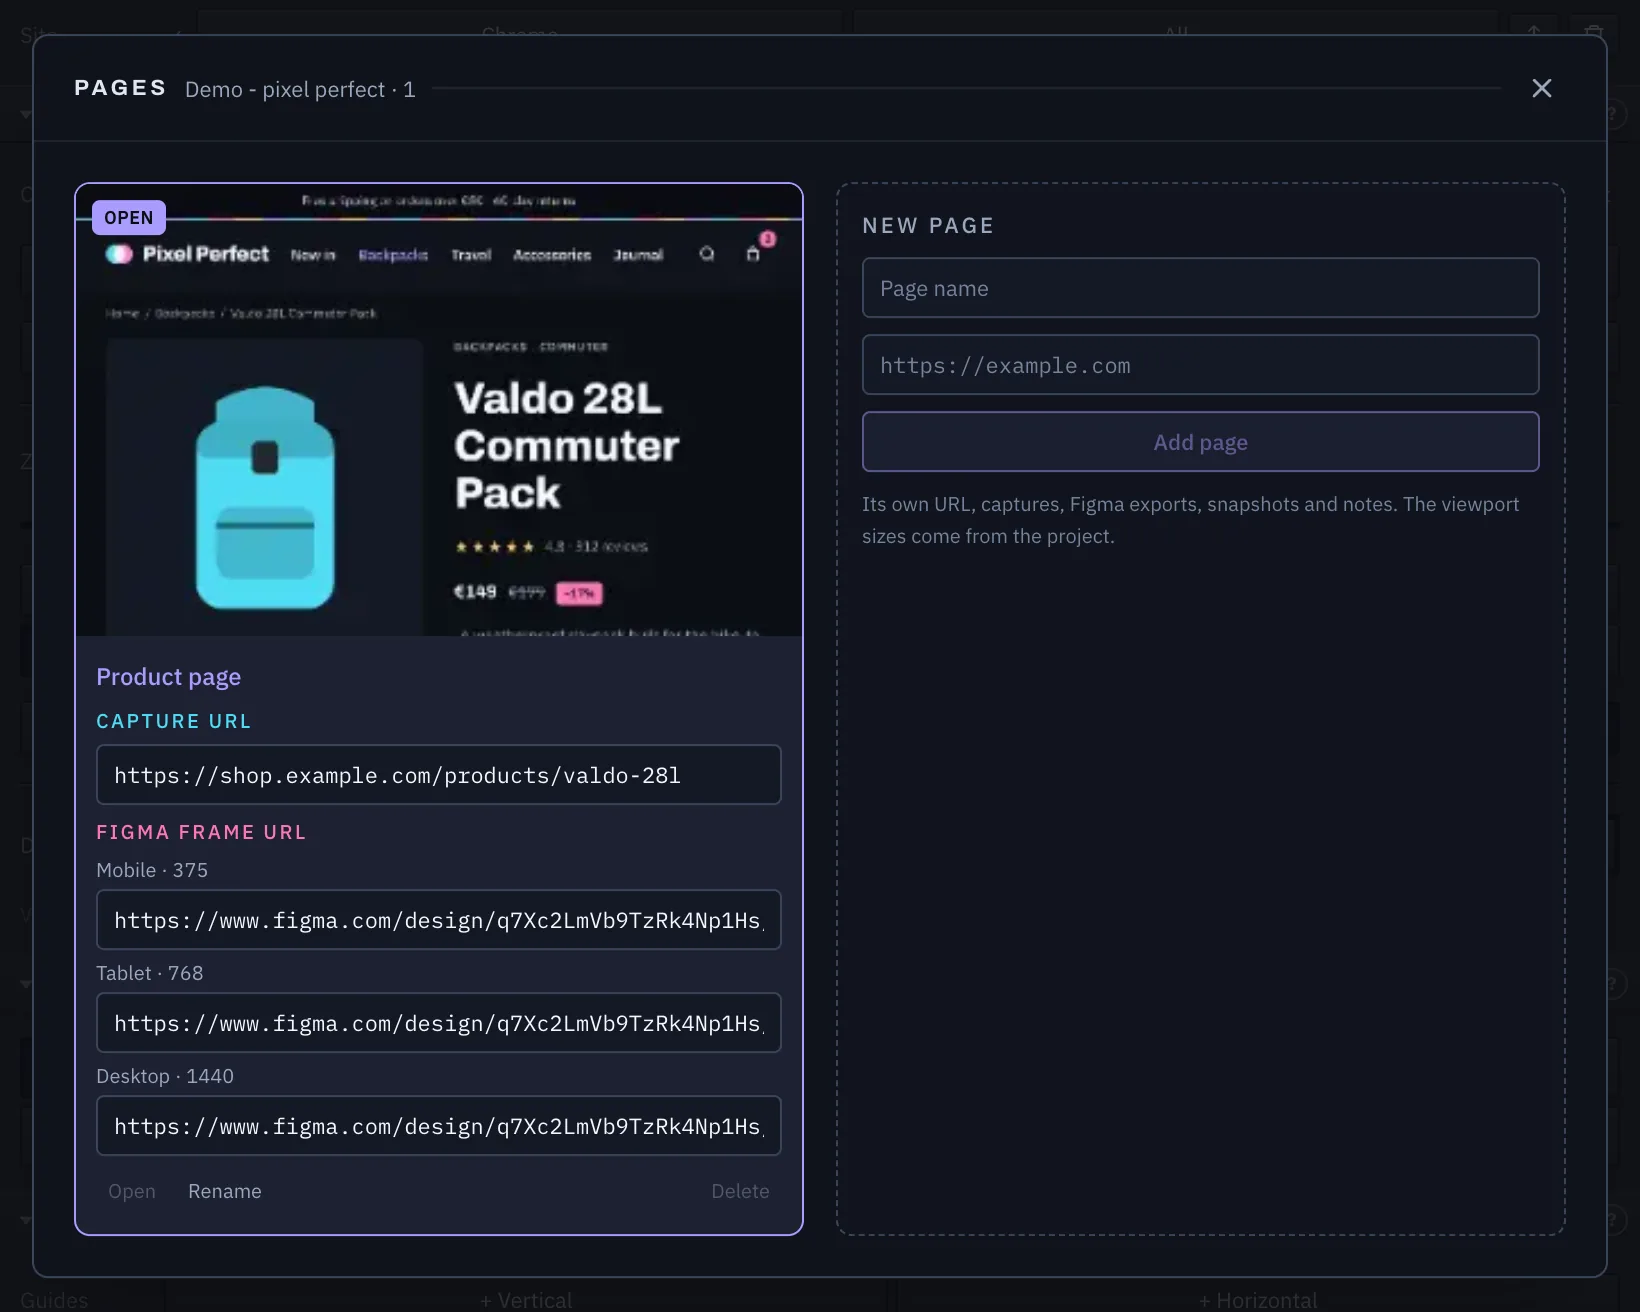
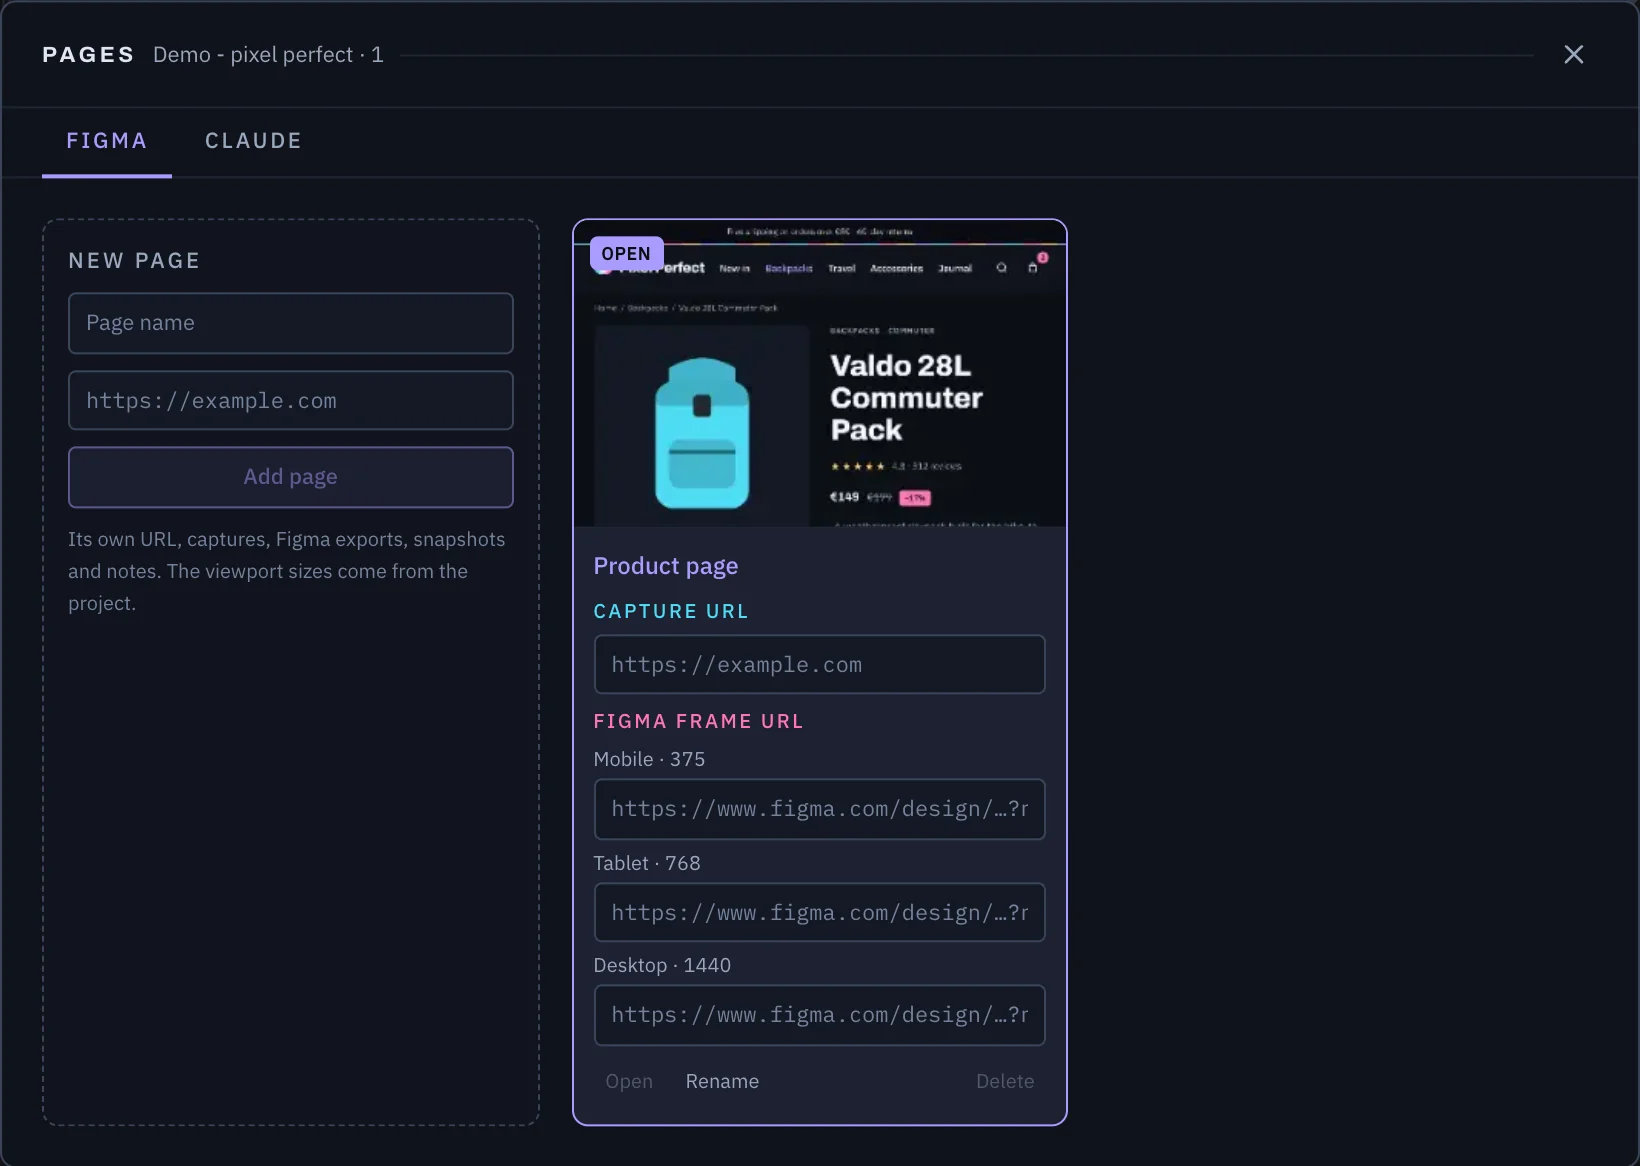
docs: screenshots for bulk upload and Claude Design import
Add real app screenshots to the Bulk upload and "Claude Design and other
tools" sections, and retake the Pages gallery one with the Figma | Claude
tabs and the New page card first.

diff --git a/app/components/docs/sections/LoadingImages.tsx b/app/components/docs/sections/LoadingImages.tsx
@@ -60,19 +60,32 @@ export default function LoadingImages() {
       </DocSubsection>
 
       <DocSubsection id={DOCS.bulkUpload} title="Bulk upload">
-        <P>
-          The upload icons in the{' '}
-          <DocLink to={DOCS.Layers}>Layers panel</DocLink> take several files at
-          once — one for Figma exports (<Kbd>I</Kbd>), one for site screenshots.
-          Each file goes to the viewport whose width it matches at{' '}
-          <strong>1x or 2x</strong>: a 750 px export lands on Mobile 375, a 2880
-          px one on Desktop 1440.
-        </P>
-        <P>
-          The closest width wins; when two files match the same viewport, the
-          last one is kept. To place a file on a viewport regardless of its
-          width, <DocLink to={DOCS.dragAndDrop}>drop it</DocLink> instead.
-        </P>
+        <WithAside
+          aside={
+            <Figure
+              src="/docs/bulk-upload.webp"
+              width={576}
+              height={294}
+              displayWidth={288}
+              alt="The Layers panel with the upload buttons of the Figma and Site rows outlined."
+              caption="The upload buttons in the Layers panel: Figma exports on the first row, site screenshots on the second."
+            />
+          }
+        >
+          <P>
+            The upload icons in the{' '}
+            <DocLink to={DOCS.Layers}>Layers panel</DocLink> take several files
+            at once — one for Figma exports (<Kbd>I</Kbd>), one for site
+            screenshots. Each file goes to the viewport whose width it matches
+            at <strong>1x or 2x</strong>: a 750 px export lands on Mobile 375, a
+            2880 px one on Desktop 1440.
+          </P>
+          <P>
+            The closest width wins; when two files match the same viewport, the
+            last one is kept. To place a file on a viewport regardless of its
+            width, <DocLink to={DOCS.dragAndDrop}>drop it</DocLink> instead.
+          </P>
+        </WithAside>
       </DocSubsection>
 
       <DocSubsection
@@ -91,6 +104,14 @@ export default function LoadingImages() {
           A <strong>Claude Design</strong> file can bring in a whole site at
           once, pages included:
         </P>
+        <Figure
+          src="/docs/claude-import.webp"
+          width={1664}
+          height={692}
+          displayWidth={832}
+          alt="File ▸ Pages on the Claude tab: a dashed drop zone, lit up while a .zip is dragged over it, with a Choose file button."
+          caption="File ▸ Pages ▸ Claude — drop the .zip here."
+        />
         <Steps>
           {[
             <>
@@ -113,6 +134,14 @@ export default function LoadingImages() {
             </>,
           ]}
         </Steps>
+        <Figure
+          src="/docs/claude-import-review.webp"
+          width={1664}
+          height={642}
+          displayWidth={832}
+          alt="The screens found in the export, each ticked, with its viewports (Desktop, Mobile, Tablet) and a New or Updates badge; below, 3 new pages, 23 free of 24, and the Cancel and Import 4 screens buttons."
+          caption="Before importing: one row per screen, the viewports its images go to, and whether it adds a page or updates one."
+        />
         <Bullets>
           {[
             <>

diff --git a/app/components/docs/sections/Pages.tsx b/app/components/docs/sections/Pages.tsx
@@ -45,10 +45,10 @@ export default function Pages() {
       <Figure
         src="/docs/pages-gallery.webp"
         width={1640}
-        height={1312}
+        height={1166}
         displayWidth={820}
-        alt="The Pages gallery: a page card with its preview, capture URL and one Figma frame URL per viewport, next to the New page card."
-        caption="File ▸ Pages… — one card per page, plus a card to add a new one."
+        alt="The Pages gallery on its Figma tab: the New page card first, then a page card with its preview, capture URL and one Figma frame URL per viewport."
+        caption="File ▸ Pages… — a card to add a new page, then one card per page. The Claude tab imports a Claude Design export."
       />
 
       <DocSubsection id={DOCS.pageFields} title="Page fields">

diff --git a/CHANGELOG.md b/CHANGELOG.md
@@ -10,6 +10,10 @@ and this project adheres to [Semantic Versioning](https://semver.org/spec/v2.0.0
 
 ## [Unreleased]
 
+### Changed
+
+- The docs show the app in the Bulk upload and Claude Design sections, and the Pages screenshot now has the Figma and Claude tabs.
+
 ## [2.1.0] - 2026-11-17
 
 ### Added
